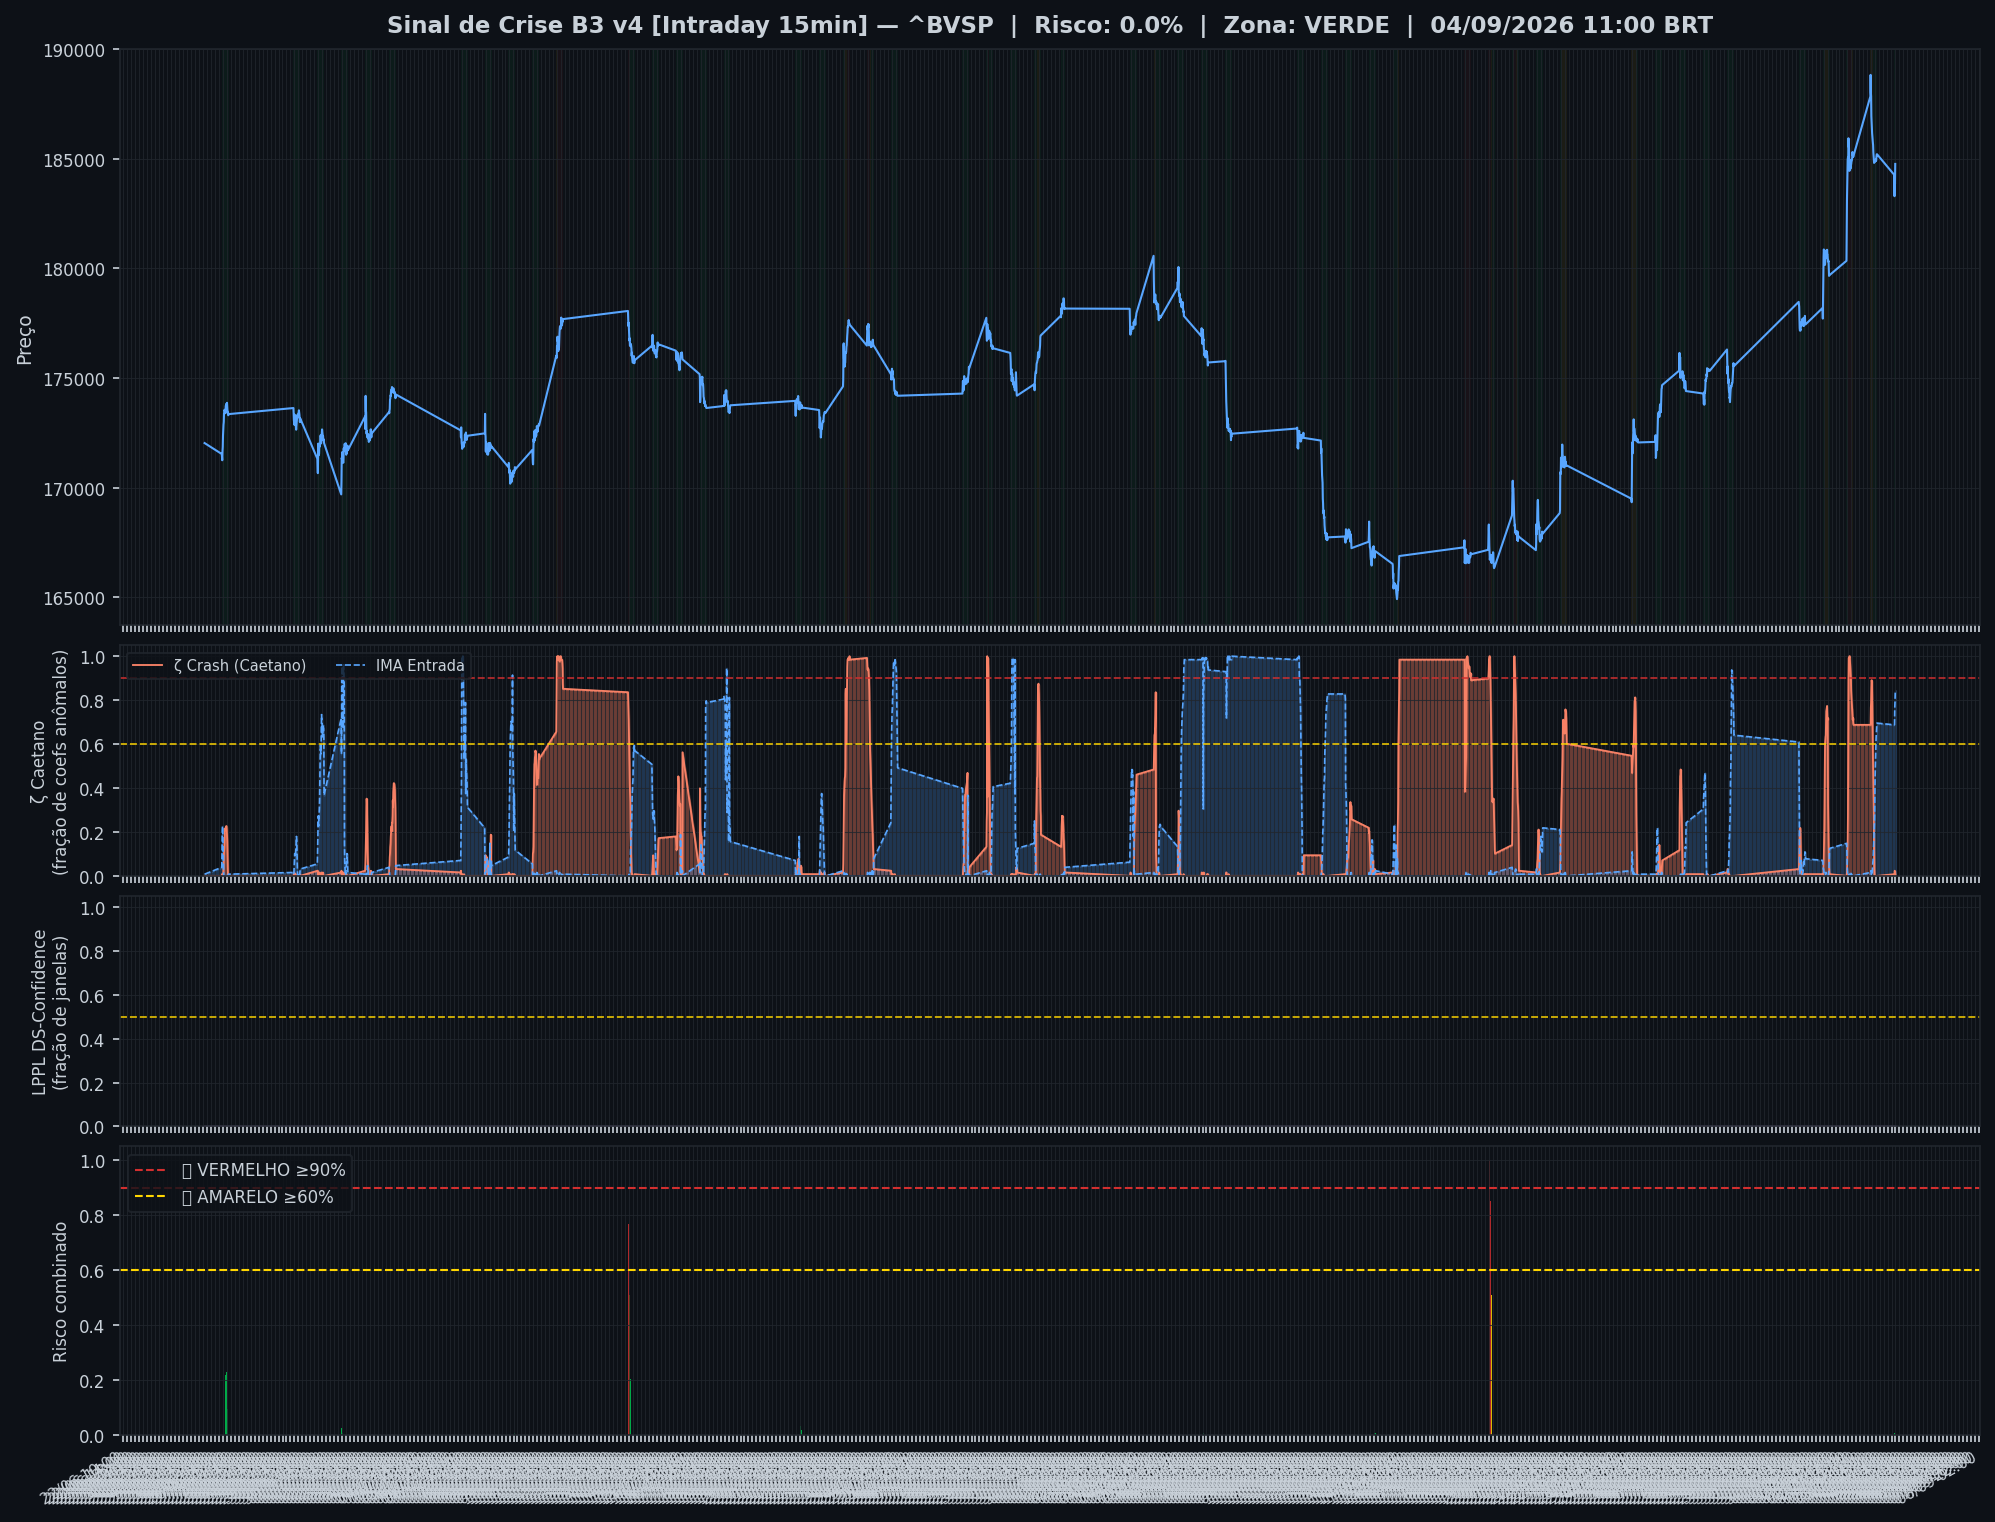
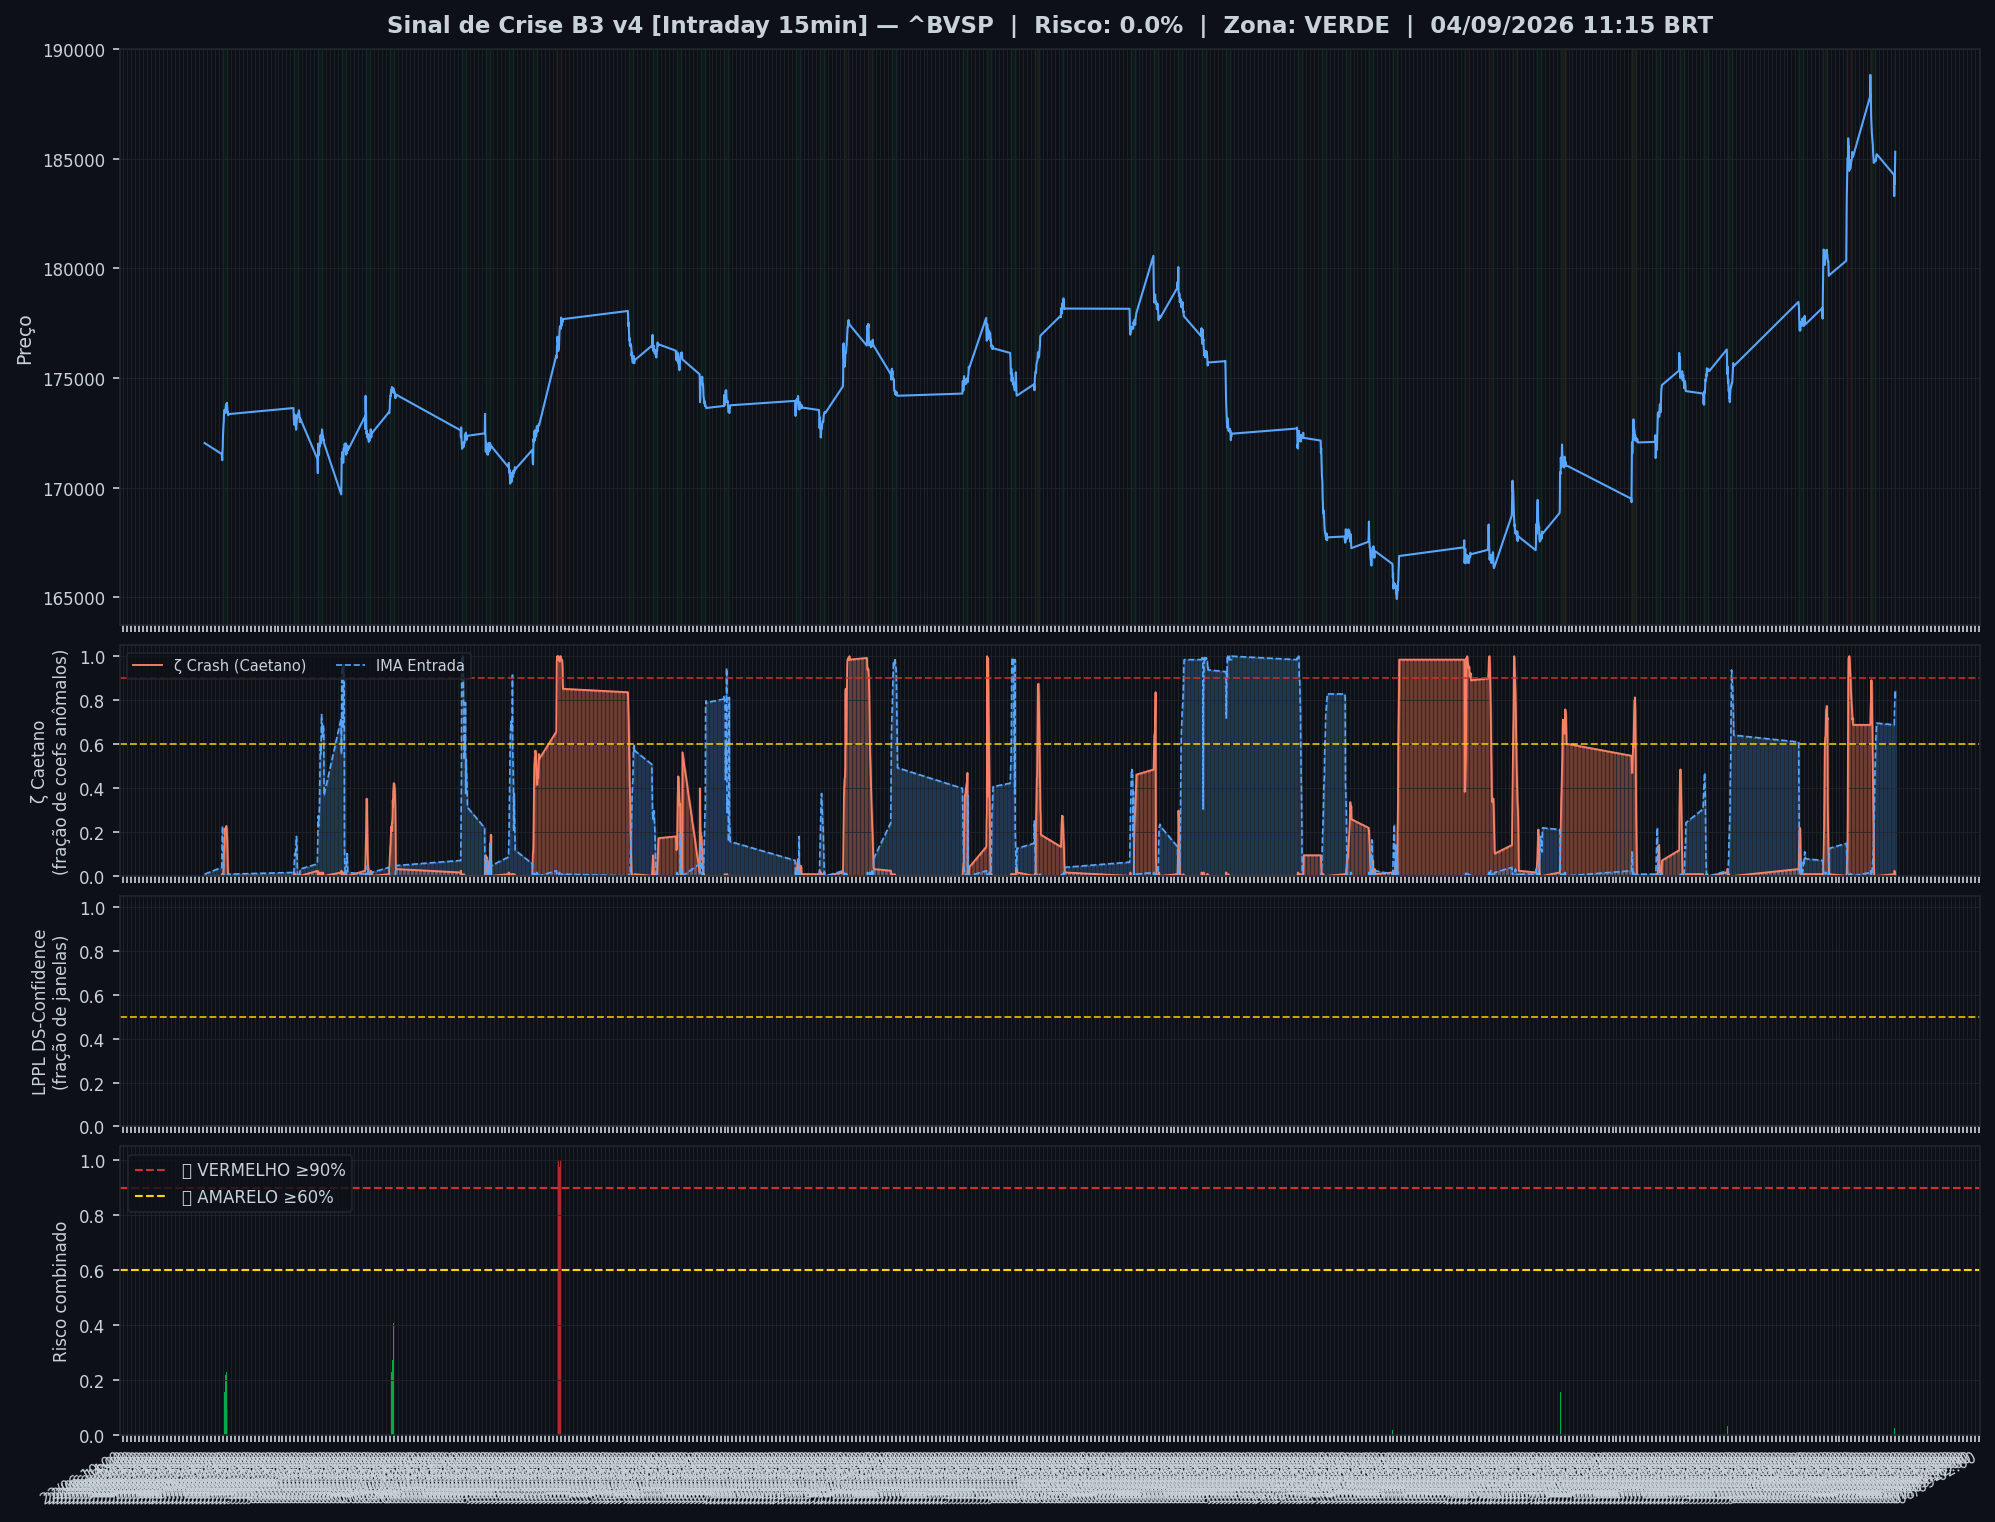
🤖 Auto: Sinal 04/09/2026 12:00

diff --git a/content/intraday/2026-09-04.md b/content/intraday/2026-09-04.md
@@ -1,10 +1,10 @@
 ---
-title: "🟢 Intraday 04/09/2026 11:00 BRT — VERDE"
+title: "🟢 Intraday 04/09/2026 11:15 BRT — VERDE"
 date: 2026-09-04
 tags: [intraday]
 ---
 
-> [!success] 🟢 **VERDE** — Risco 0% · ▼ -1 p.p. vs leitura anterior
+> [!success] 🟢 **VERDE** — Risco 0% · ＝ +0 p.p. vs leitura anterior
 > `░░░░░░░░░░░░░░░░░░░░`
 > Mercado sem sinais relevantes de estresse.
 
@@ -12,9 +12,9 @@ tags: [intraday]
 | Indicador | Valor |
 |---|---|
 | 🔴 ζ Crash — severidade da queda em curso | **0%** |
-| 🔵 ζ Entrada — estrutura de fundo | 84% |
+| 🔵 ζ Entrada — estrutura de fundo | 80% |
 | 🫧 LPPL DS-Confidence | 0% |
-| 📊 Ibovespa | 184.758 pts |
+| 📊 Ibovespa | 185.312 pts |
 
 ![Gráfico do sinal](../graficos/sinal_intraday.png)
 
@@ -22,6 +22,7 @@ tags: [intraday]
 
 | Data | Zona | Risco | IMA Crash | Entrada | LPPL |
 |---|---|---|---|---|---|
+| 2026-09-04 11:15 | 🟢 VERDE | **0%** | 0% | 80% | 0% |
 | 2026-09-04 11:00 | 🟢 VERDE | **0%** | 0% | 84% | 0% |
 | 2026-09-04 10:45 | 🟢 VERDE | **1%** | 1% | 84% | 0% |
 | 2026-09-04 10:30 | 🟢 VERDE | **2%** | 2% | 79% | 0% |
@@ -51,7 +52,6 @@ tags: [intraday]
 | 2026-09-03 11:30 | 🟡 AMARELO | **84%** | 84% | 1% | 0% |
 | 2026-09-03 11:15 | 🟡 AMARELO | **88%** | 88% | 0% | 0% |
 | 2026-09-03 11:00 | 🟡 AMARELO | **89%** | 89% | 0% | 0% |
-| 2026-09-03 10:45 | 🟡 AMARELO | **86%** | 86% | 1% | 0% |
 
 ## Monitor Multi-Ativo
 
@@ -59,37 +59,37 @@ tags: [intraday]
 
 | Zona | Ativo | Setor | IMA Crash | IMA Entrada |
 |---|---|---|---|---|
-| 🟡 | **VALE** | Mineração | 85.2% | 0.0% |
-| 🟡 | **ITAUUNIBANCO** | Financeiro | 85.2% | 0.0% |
-| 🟡 | **PETROBRAS** | Petróleo | 85.2% | 0.0% |
-| 🟡 | **AXIA ENERGIA** | Energia | 85.2% | 0.0% |
-| 🟡 | **PETROBRAS** | Petróleo | 85.2% | 0.0% |
-| 🟡 | **BRADESCO** | Financeiro | 85.2% | 0.0% |
-| 🟡 | **B3** | Financeiro | 85.2% | 0.0% |
-| 🟡 | **ITAUSA** | Financeiro | 85.2% | 0.0% |
-| 🟡 | **SABESP** | Saneamento | 85.2% | 0.0% |
-| 🟡 | **BTGP BANCO** | Financeiro | 85.2% | 0.0% |
-| 🟡 | **AMBEV S/A** | Consumo | 85.2% | 0.0% |
-| 🟡 | **EMBRAER** | Outros | 85.2% | 0.0% |
-| 🟡 | **BRASIL** | Financeiro | 85.2% | 0.0% |
-| 🟡 | **ENEVA** | Energia | 85.2% | 0.0% |
-| 🟡 | **EQUATORIAL** | Energia | 85.2% | 0.0% |
-| 🟡 | **COPEL** | Energia | 85.2% | 0.0% |
-| 🟡 | **PRIO** | Petróleo | 85.2% | 0.0% |
-| 🟡 | **VIBRA** | Energia | 85.2% | 0.0% |
-| 🟡 | **REDE D OR** | Saúde | 85.2% | 0.0% |
-| 🟡 | **ULTRAPAR** | Outros | 85.2% | 0.0% |
-| 🟡 | **LOCALIZA** | Aluguel | 85.2% | 0.0% |
-| 🟡 | **GERDAU** | Siderurgia | 85.2% | 0.0% |
-| 🟡 | **SUZANO S.A.** | Papel/Celulose | 85.2% | 0.0% |
-| 🟡 | **RAIADROGASIL** | Outros | 85.2% | 0.0% |
-| 🟡 | **BBSEGURIDADE** | Financeiro | 85.2% | 0.0% |
-| 🟡 | **WEG** | Industrial | 82.0% | 0.0% |
+| 🟡 | **VALE** | Mineração | 78.1% | 0.0% |
+| 🟡 | **ITAUUNIBANCO** | Financeiro | 78.1% | 0.0% |
+| 🟡 | **PETROBRAS** | Petróleo | 78.1% | 0.0% |
+| 🟡 | **AXIA ENERGIA** | Energia | 78.1% | 0.0% |
+| 🟡 | **PETROBRAS** | Petróleo | 78.1% | 0.0% |
+| 🟡 | **BRADESCO** | Financeiro | 78.1% | 0.0% |
+| 🟡 | **B3** | Financeiro | 78.1% | 0.0% |
+| 🟡 | **ITAUSA** | Financeiro | 78.1% | 0.0% |
+| 🟡 | **WEG** | Industrial | 78.1% | 0.0% |
+| 🟡 | **SABESP** | Saneamento | 78.1% | 0.0% |
+| 🟡 | **BTGP BANCO** | Financeiro | 78.1% | 0.0% |
+| 🟡 | **AMBEV S/A** | Consumo | 78.1% | 0.0% |
+| 🟡 | **EMBRAER** | Outros | 78.1% | 0.0% |
+| 🟡 | **BRASIL** | Financeiro | 78.1% | 0.0% |
+| 🟡 | **ENEVA** | Energia | 78.1% | 0.0% |
+| 🟡 | **EQUATORIAL** | Energia | 78.1% | 0.0% |
+| 🟡 | **COPEL** | Energia | 78.1% | 0.0% |
+| 🟡 | **PRIO** | Petróleo | 78.1% | 0.0% |
+| 🟡 | **VIBRA** | Energia | 78.1% | 0.0% |
+| 🟡 | **REDE D OR** | Saúde | 78.1% | 0.0% |
+| 🟡 | **ULTRAPAR** | Outros | 78.1% | 0.0% |
+| 🟡 | **LOCALIZA** | Aluguel | 78.1% | 0.0% |
+| 🟡 | **GERDAU** | Siderurgia | 78.1% | 0.0% |
+| 🟡 | **SUZANO S.A.** | Papel/Celulose | 78.1% | 0.0% |
+| 🟡 | **RAIADROGASIL** | Outros | 78.1% | 0.0% |
+| 🟡 | **BBSEGURIDADE** | Financeiro | 78.1% | 0.0% |
 | 🟡 | **USD/BRL** | Câmbio | 78.1% | 0.0% |
 
 ![Monitor multi-ativo](../graficos/multi_intraday.png)
 
-*Página atualizada em 04/09/2026 11:45 BRT (leitura da barra de 2026-09-04 11:00 BRT).*
+*Página atualizada em 04/09/2026 12:00 BRT (leitura da barra de 2026-09-04 11:15 BRT).*
 
 > [!info]- Como interpretar (clique para expandir)
 > - **ζ Crash**: fração dos coeficientes wavelet acima do corte (Caetano & Yoneyama 2009). Escala absoluta: ζ=0,90 = 90% dos coeficientes anômalos — historicamente, quedas com ζ≥0,90 foram mais fundas e mais longas. **Mede a severidade do movimento em curso, não prevê o início da queda.**

diff --git a/content/index.md b/content/index.md
@@ -8,9 +8,9 @@ tags: [home]
 
 Monitoramento diário e intraday do Ibovespa — **IMA Wavelet** (Prof. Marco Antonio Leonel Caetano, ITA/INSPER) + **LPPL DS-Confidence** (Prof. Didier Sornette, ETH-Zurich).
 
-*Última atualização: 04/09/2026 11:45 BRT · ^BVSP · Intraday 15min · v4*
+*Última atualização: 04/09/2026 12:00 BRT · ^BVSP · Intraday 15min · v4*
 
-> [!success] 🟢 **VERDE** — Risco 0% · ▼ -1 p.p. vs leitura anterior
+> [!success] 🟢 **VERDE** — Risco 0% · ＝ +0 p.p. vs leitura anterior
 > `░░░░░░░░░░░░░░░░░░░░`
 > Mercado sem sinais relevantes de estresse.
 
@@ -18,9 +18,9 @@ Monitoramento diário e intraday do Ibovespa — **IMA Wavelet** (Prof. Marco An
 | Indicador | Valor |
 |---|---|
 | 🔴 ζ Crash — severidade da queda em curso | **0%** |
-| 🔵 ζ Entrada — estrutura de fundo | 84% |
+| 🔵 ζ Entrada — estrutura de fundo | 80% |
 | 🫧 LPPL DS-Confidence | 0% |
-| 📊 Ibovespa | 184.758 pts |
+| 📊 Ibovespa | 185.312 pts |
 
 **Multi-ativo:** 100% em tensão (0🔴 27🟡 de 27 ativos)
 

diff --git a/content/historico.md b/content/historico.md
@@ -7,6 +7,7 @@ tags: [historico]
 
 | Data | Modo | Zona | Risco | IMA | LPPL |
 |---|---|---|---|---|---|
+| 2026-09-04 11:15 | intraday | 🟢 VERDE | 0% | 0% | 0% |
 | 2026-09-04 11:00 | intraday | 🟢 VERDE | 0% | 0% | 0% |
 | 2026-09-04 10:45 | intraday | 🟢 VERDE | 1% | 1% | 0% |
 | 2026-09-04 10:30 | intraday | 🟢 VERDE | 2% | 2% | 0% |
